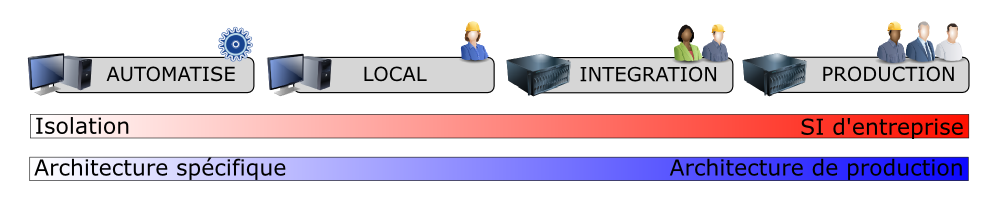
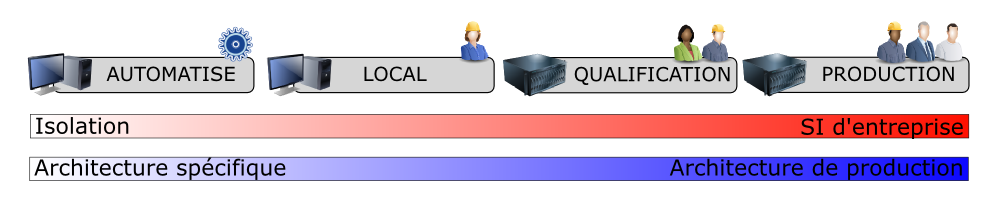
sémantique : qualification au lieu d'intégration

Changed region(s): [[0.496, 0.27, 0.744, 0.48]]

diff --git a/index.html b/index.html
@@ -1030,7 +1030,7 @@
 
           <section>
             <h2>Environnements</h2>
-            <p class="fragments"><img alt="environnement de tests automatisés, local, d'intégration et de production" src="img/environnements.png"/></p>
+            <p class="fragments"><img alt="environnement de tests automatisés, local, de qualification et de production" src="img/environnements.png"/></p>
             <aside class="notes">
               <ul>
                 <li>local : tout devrait être testable (dev sous linux ?)</li>
@@ -1047,13 +1047,15 @@
 						<h3>Adapter au contexte</h3>
 						<ul>
               <li class="fragment">Pré-production</li>
-              <li class="fragment">Plusieurs intégrations</li>
+              <li class="fragment">Plusieurs qualifications</li>
+              <li class="fragment">Intégration</li>
 						</ul>
 						<aside class="notes">
 							<ul>
                 <li>préprod : debug sur données de prod, performances</li>
                 <li>tests de perf presque inutiles hors identique prod</li>
-                <li>integ : plusieurs versions en parallèle</li>
+                <li>qualif : plusieurs versions en parallèle</li>
+                <li>integ : pour compilation/packaging manuel</li>
                 <li>Sur ce slide, équipe de gestion d'env nécessaire (cher)</li>
 							</ul>
 						</aside>
